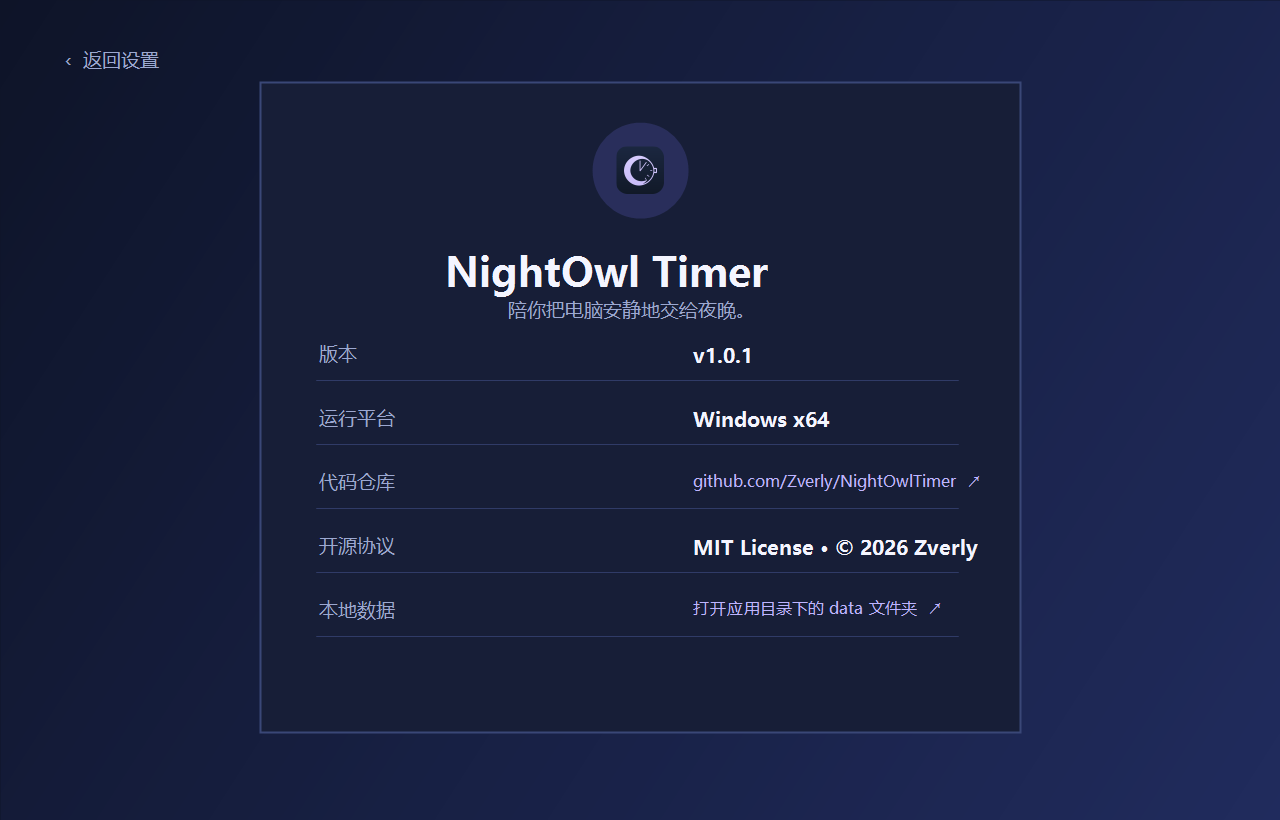
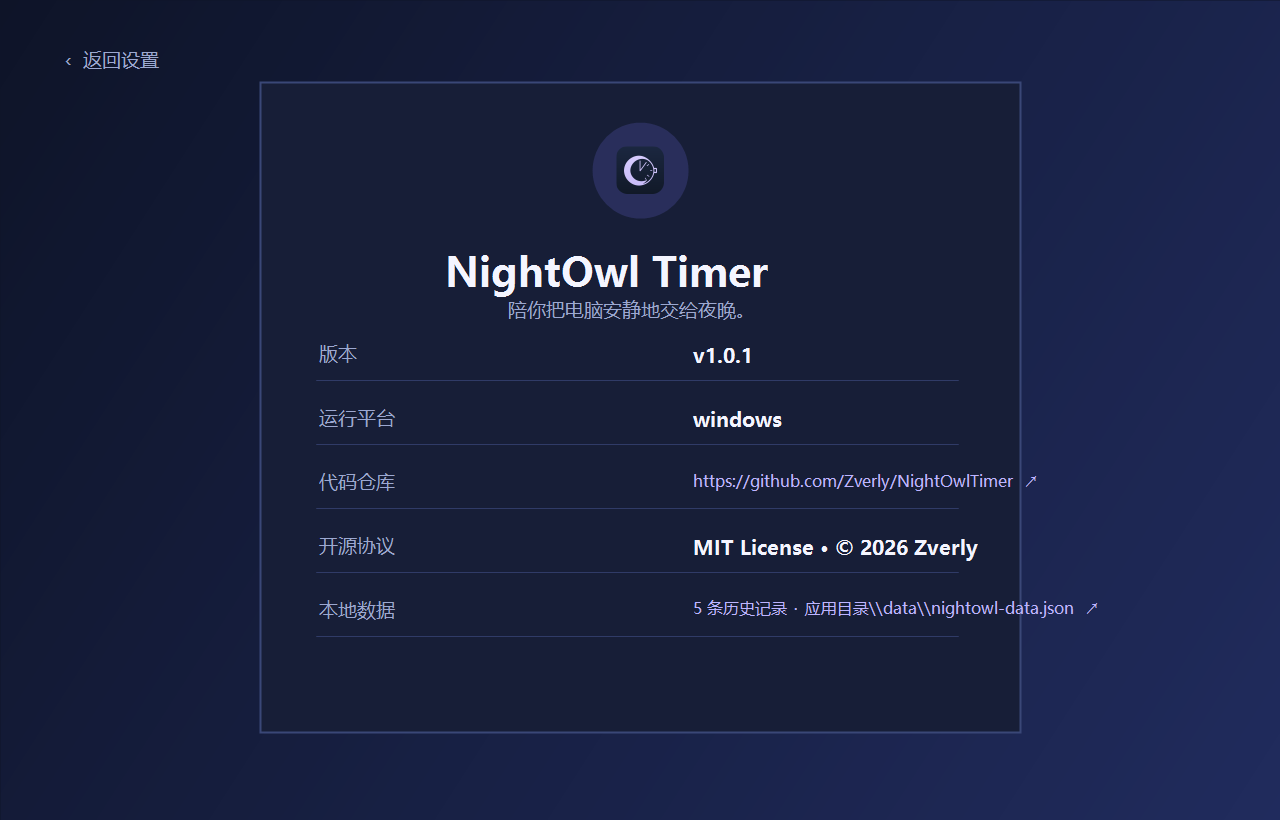
fix: align about colors and preview content

Changed region(s): [[0.5312, 0.7317, 0.8438, 0.7622], [0.5312, 0.5793, 0.8125, 0.6098], [0.5312, 0.4878, 0.6562, 0.5183]]

diff --git a/src/styles.css b/src/styles.css
@@ -711,14 +711,14 @@ input:disabled {
   border: 0;
   border-radius: 9px;
   padding: 10px 16px;
-  background: #d88663;
-  color: #fff7f2;
+  background: var(--primary-strong);
+  color: var(--text);
   font-size: 12px;
   font-weight: 700;
   cursor: pointer;
 }
 .update-button:hover:not(:disabled) {
-  background: #e19672;
+  background: var(--primary);
 }
 .update-button:disabled {
   cursor: wait;
@@ -729,7 +729,7 @@ input:disabled {
   align-items: center;
   gap: 5px;
   margin-left: auto;
-  color: #e49470;
+  color: #aeb5ff;
   font-size: 12px;
   text-align: right;
 }
